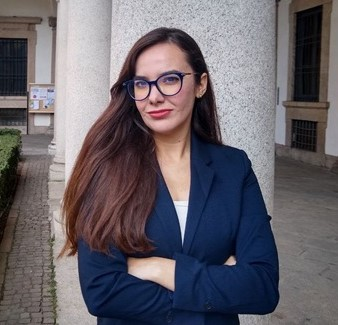
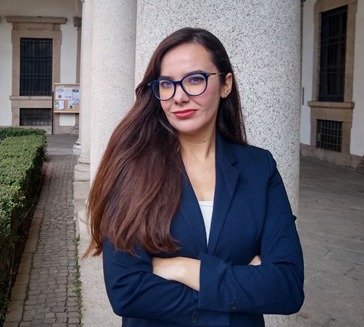
photo_changed3

diff --git a/index.html b/index.html
@@ -1791,7 +1791,7 @@
 					</div>
 				<div class="media">
                         <div class="media-left media-middle">
-                            <img class="media-object" src="images/mentor/BShapiro2.jpg" data-holder-rendered="true" style='border-radius:50%;'>
+                            <img class="media-object" src="images/mentor/BShapiro3.jpg" data-holder-rendered="true" style='border-radius:50%;'>
                         </div>
                         <div class="media-body">
                             <h3 class="media-heading">
